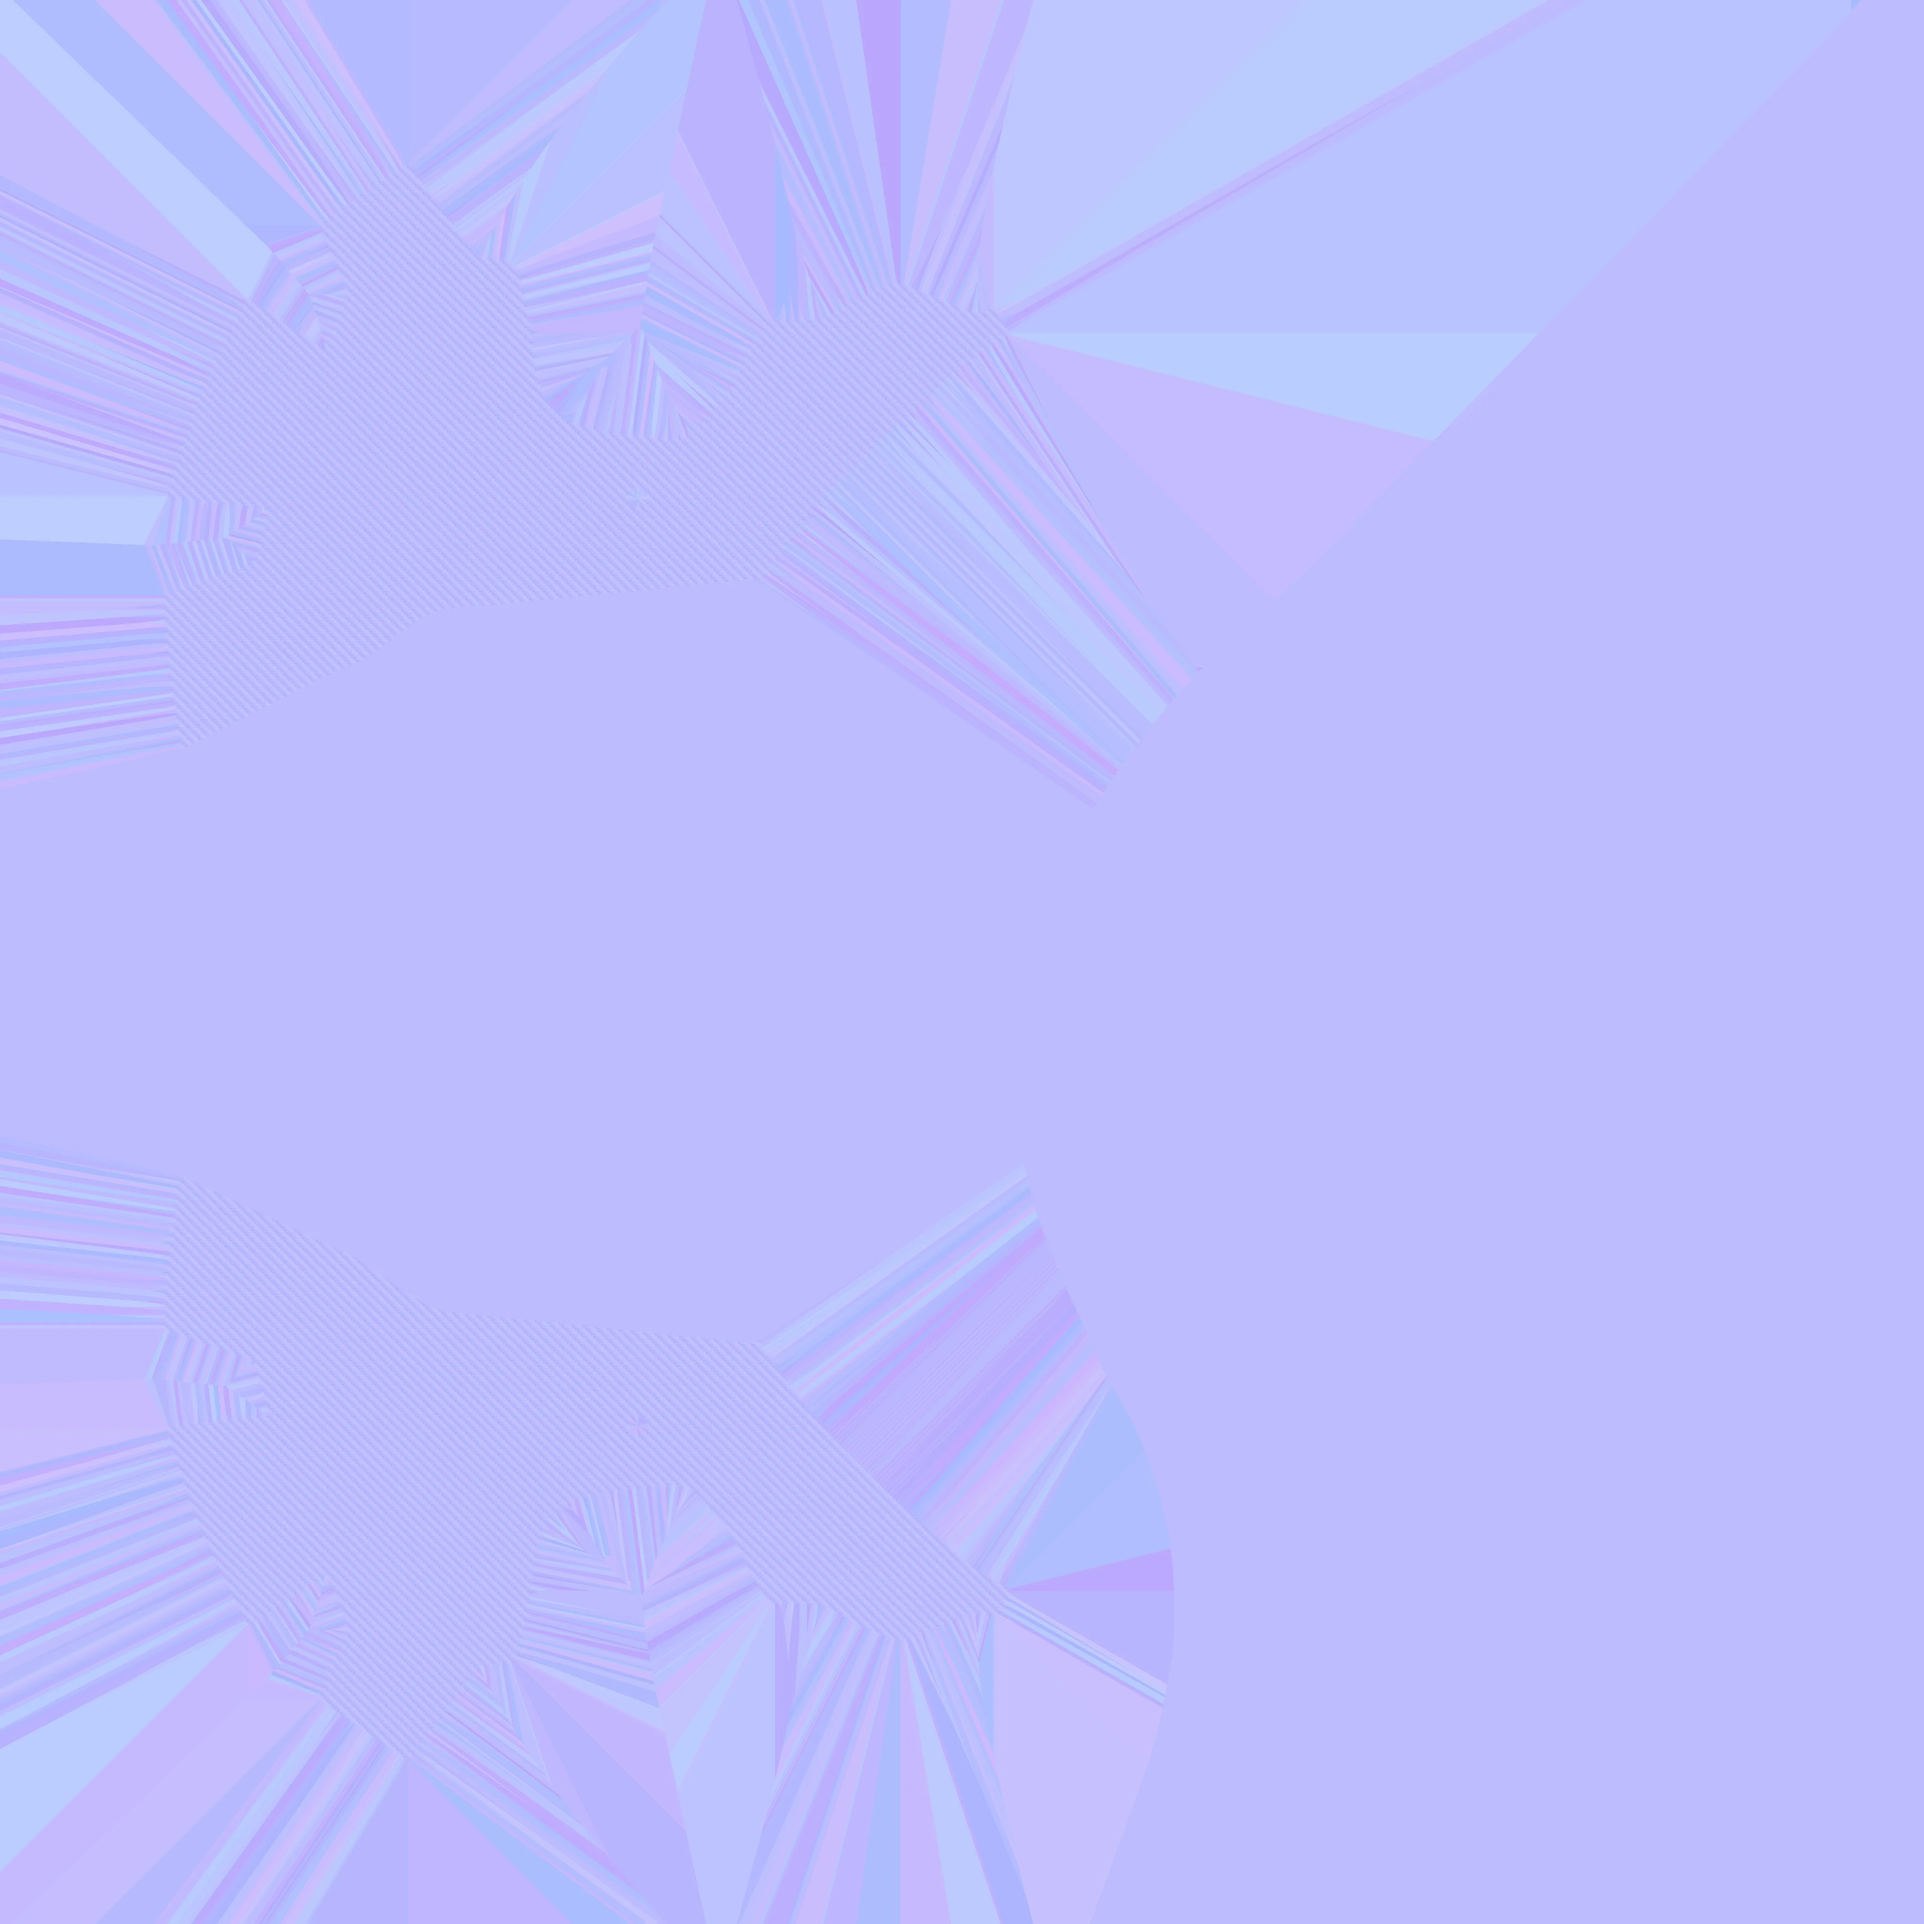
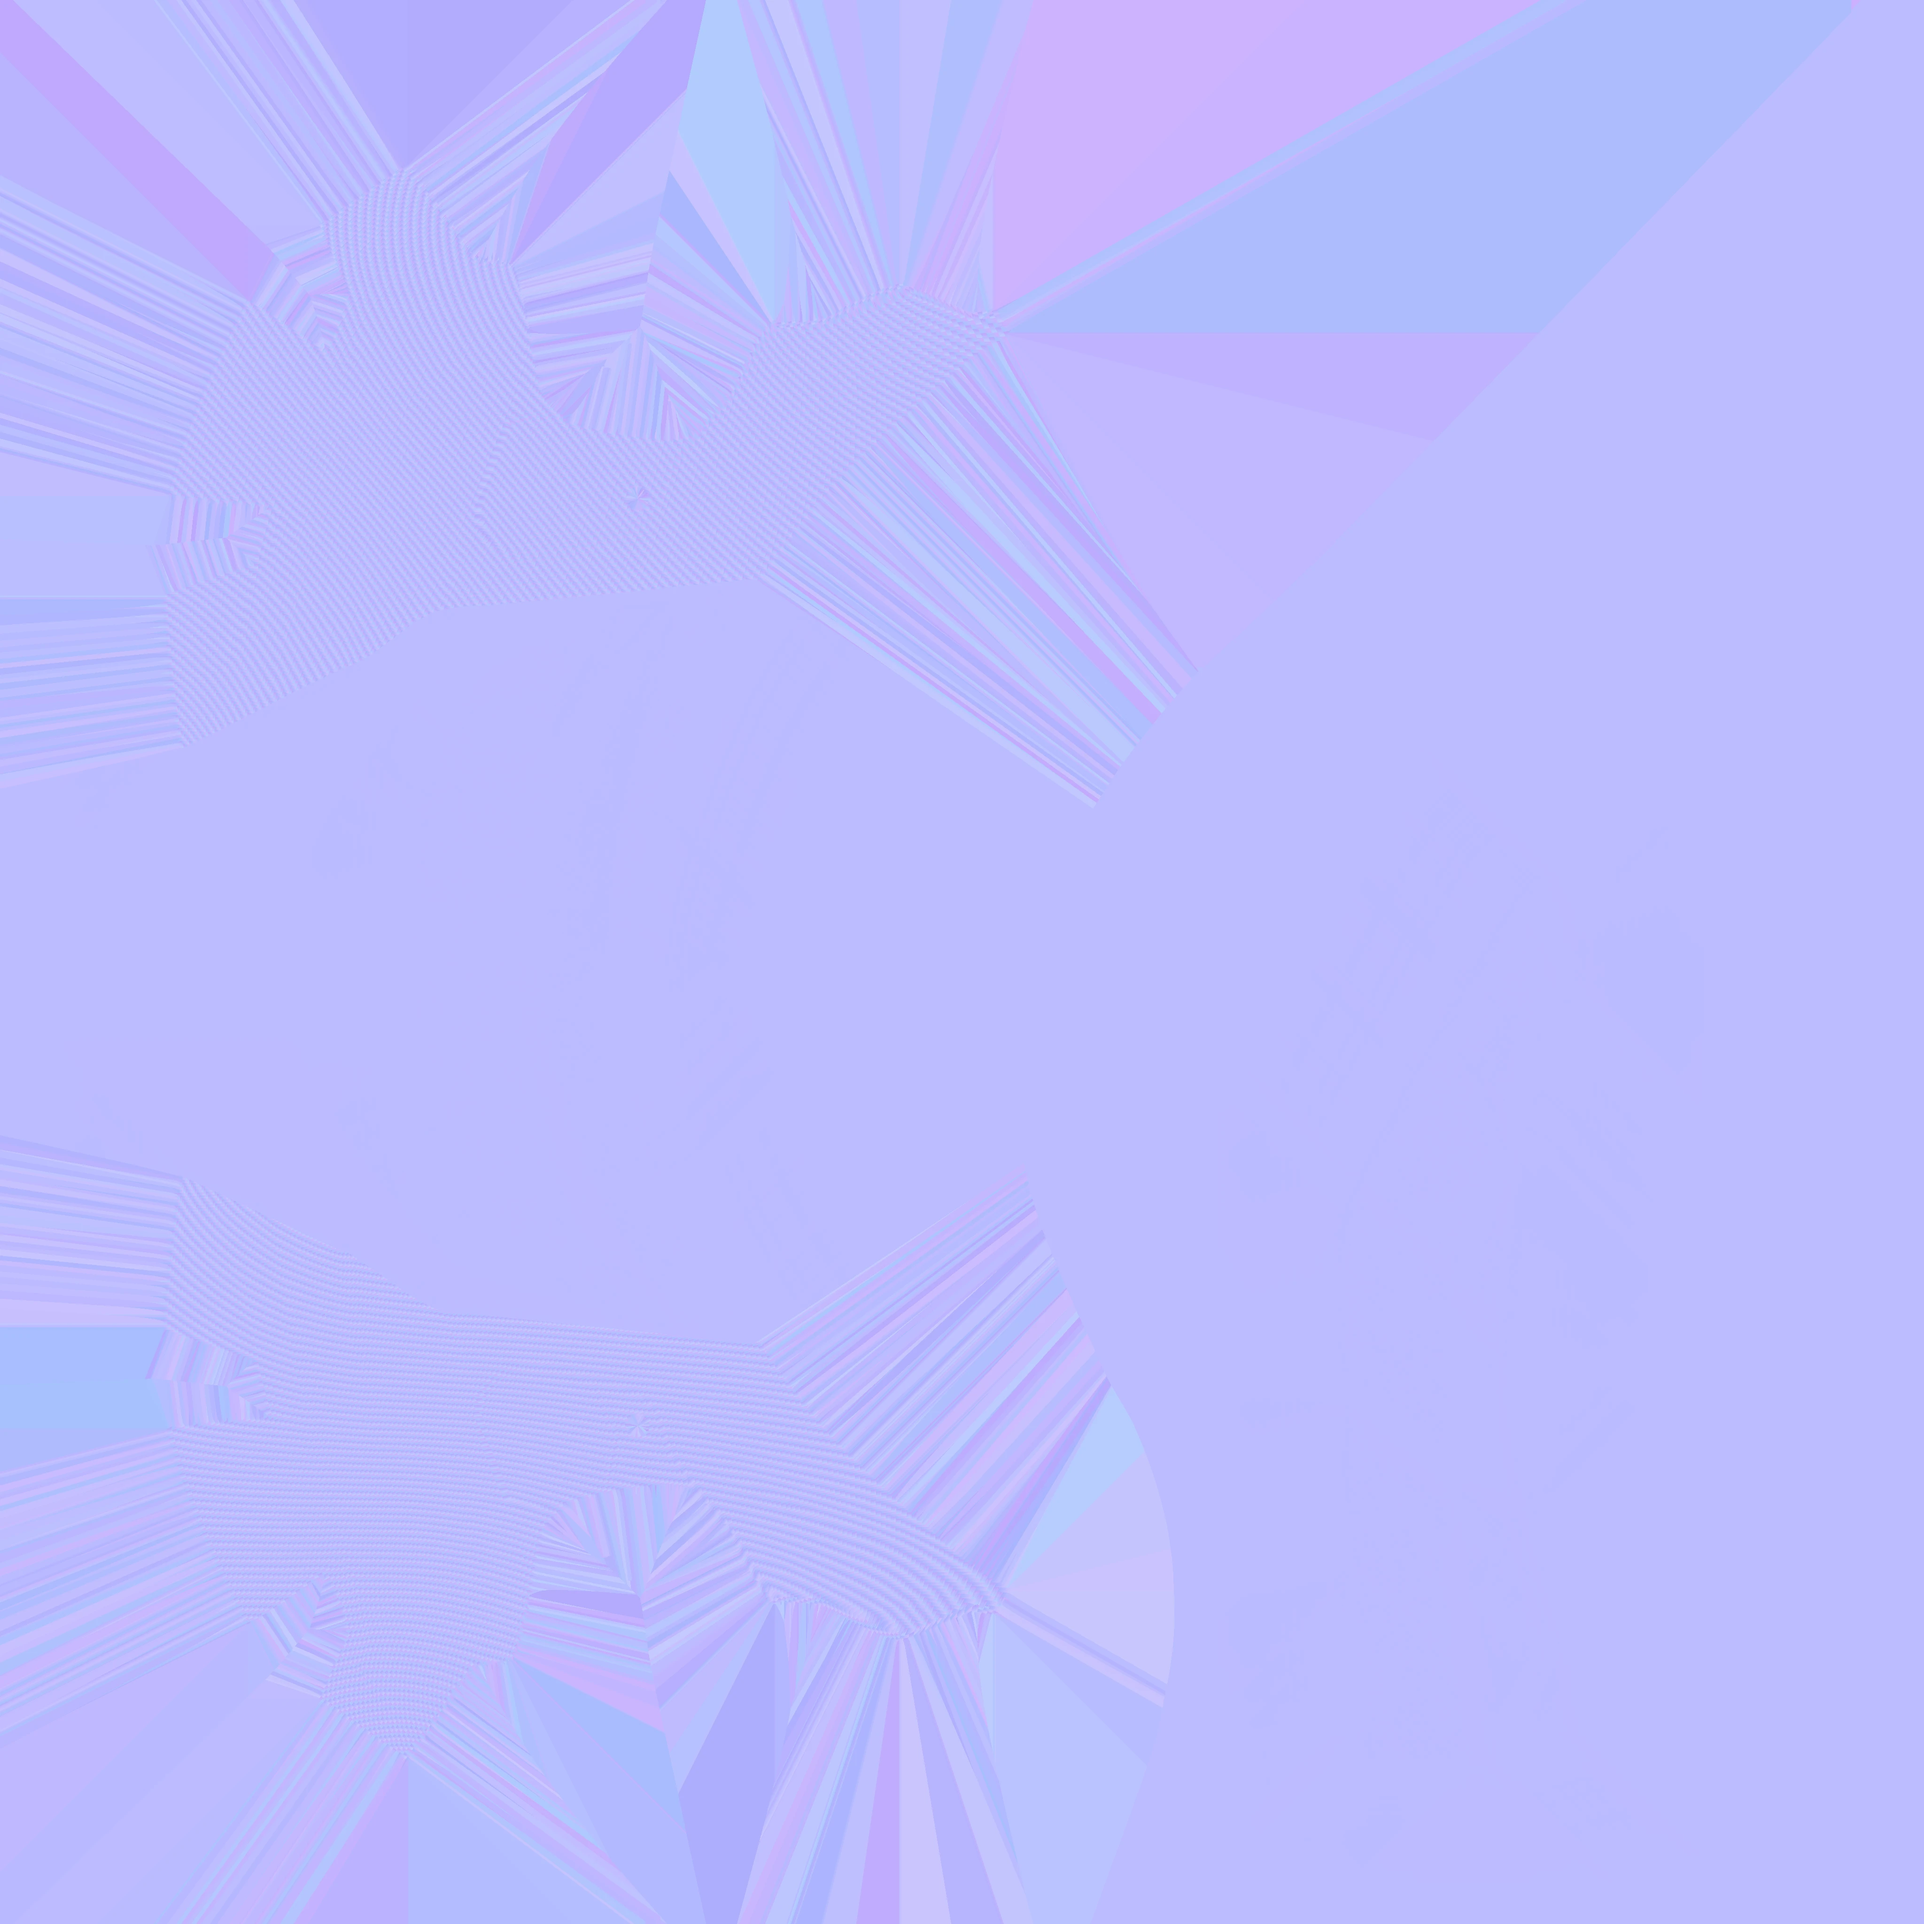
Optimized textures for Outer Shell and Outside Fabric mats

diff --git a/src/Insides.jsx b/src/Insides.jsx
@@ -1,8 +1,9 @@
 import React, { useRef } from 'react'
+
 import { useGLTF, useTexture } from '@react-three/drei'
 import * as THREE from 'three'
-import { proxy, useSnapshot } from 'valtio'
 
+import { proxy, useSnapshot } from 'valtio'
 import { state } from './store'
 
 export default function Insides(props) {
@@ -19,7 +20,7 @@ export default function Insides(props) {
 		}
 	)
 	const insideFabricNormal = useTexture(
-		'/tex/inside-fabric/helmet-inside-fabric-normal.png',
+		'/tex/inside-fabric/helmet-inside-fabric-normal.webp',
 		(texture) => {
 			texture.flipY = false
 			texture.encoding = THREE.sRGBEncoding
@@ -29,14 +30,14 @@ export default function Insides(props) {
 	//OUTSIDE FABRIC
 
 	const outsideFabricAlbedo = useTexture(
-		'/tex/outside-fabric/helmet-outside-fabric-albedo.jpg',
+		'/tex/outside-fabric/helmet-outside-fabric-albedo.webp',
 		(texture) => {
 			texture.flipY = false
 			texture.encoding = THREE.sRGBEncoding
 		}
 	)
 	const outsideFabricNormal = useTexture(
-		'/tex/outside-fabric/helmet-outside-fabric-normal.png',
+		'/tex/outside-fabric/helmet-outside-fabric-normal.webp',
 		(texture) => {
 			texture.flipY = false
 			texture.encoding = THREE.sRGBEncoding
@@ -49,7 +50,7 @@ export default function Insides(props) {
 		'/tex/shell-plastics/helmet-shell-plastics-roughness.jpg',
 		(texture) => {
 			texture.flipY = false
-			texture.encoding = THREE.NoColorSpace
+			texture.encoding = THREE.sRGBEncoding
 		}
 	)
 

diff --git a/src/OuterShell.jsx b/src/OuterShell.jsx
@@ -13,7 +13,7 @@ export default function OuterShell(props) {
 	const { nodes } = useGLTF('/outer-shell.glb')
 
 	const redAlbedo = useTexture(
-		'/tex/outer-shell/helmet-outer-shell-albedo-red.jpg',
+		'/tex/outer-shell/helmet-outer-shell-albedo-red.webp',
 		(texture) => {
 			texture.flipY = false
 			texture.encoding = THREE.sRGBEncoding
@@ -21,7 +21,7 @@ export default function OuterShell(props) {
 	)
 
 	const blueAlbedo = useTexture(
-		'/tex/outer-shell/helmet-outer-shell-albedo-blue.jpg',
+		'/tex/outer-shell/helmet-outer-shell-albedo-blue.webp',
 		(texture) => {
 			texture.flipY = false
 			texture.encoding = THREE.sRGBEncoding
@@ -29,7 +29,7 @@ export default function OuterShell(props) {
 	)
 
 	const greenAlbedo = useTexture(
-		'/tex/outer-shell/helmet-outer-shell-albedo-green.jpg',
+		'/tex/outer-shell/helmet-outer-shell-albedo-green.webp',
 		(texture) => {
 			texture.flipY = false
 			texture.encoding = THREE.sRGBEncoding
@@ -44,7 +44,7 @@ export default function OuterShell(props) {
 			: greenAlbedo
 
 	const normal = useTexture(
-		'/tex/outer-shell/helmet-outer-shell-normal.webp',
+		'/tex/outer-shell/helmet-outer-shell-normal.png',
 		(texture) => {
 			texture.flipY = false
 			texture.encoding = THREE.sRGBEncoding
